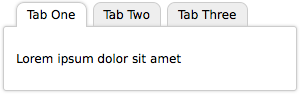
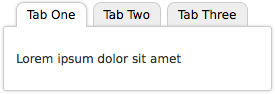
Decrease width of demo boxes to fit in site design

diff --git a/demos/tabs.html b/demos/tabs.html
@@ -54,7 +54,7 @@
             padding: 10px;
             margin: 2em 0;
             float: left;
-            width: 300px;
+            width: 275px;
             height: 250px;
         }
         .control {
